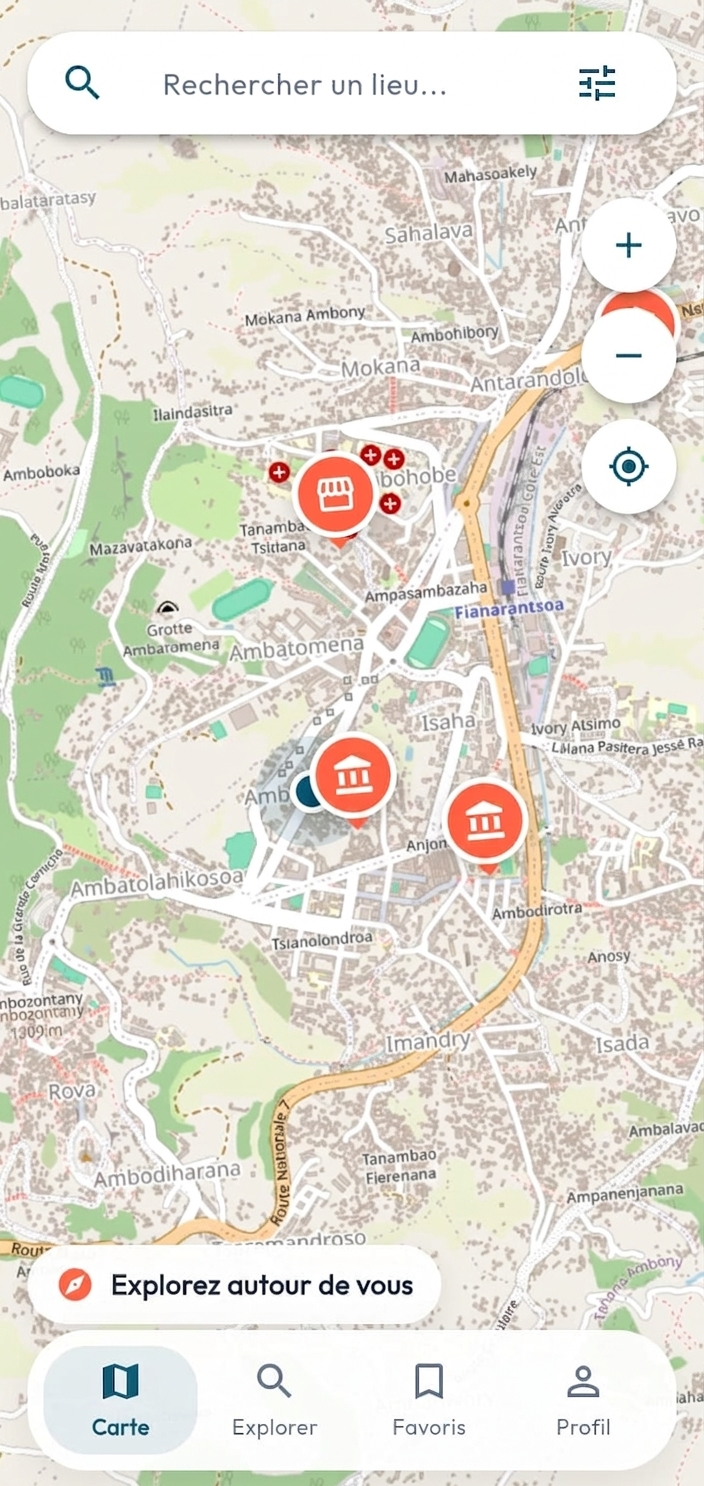
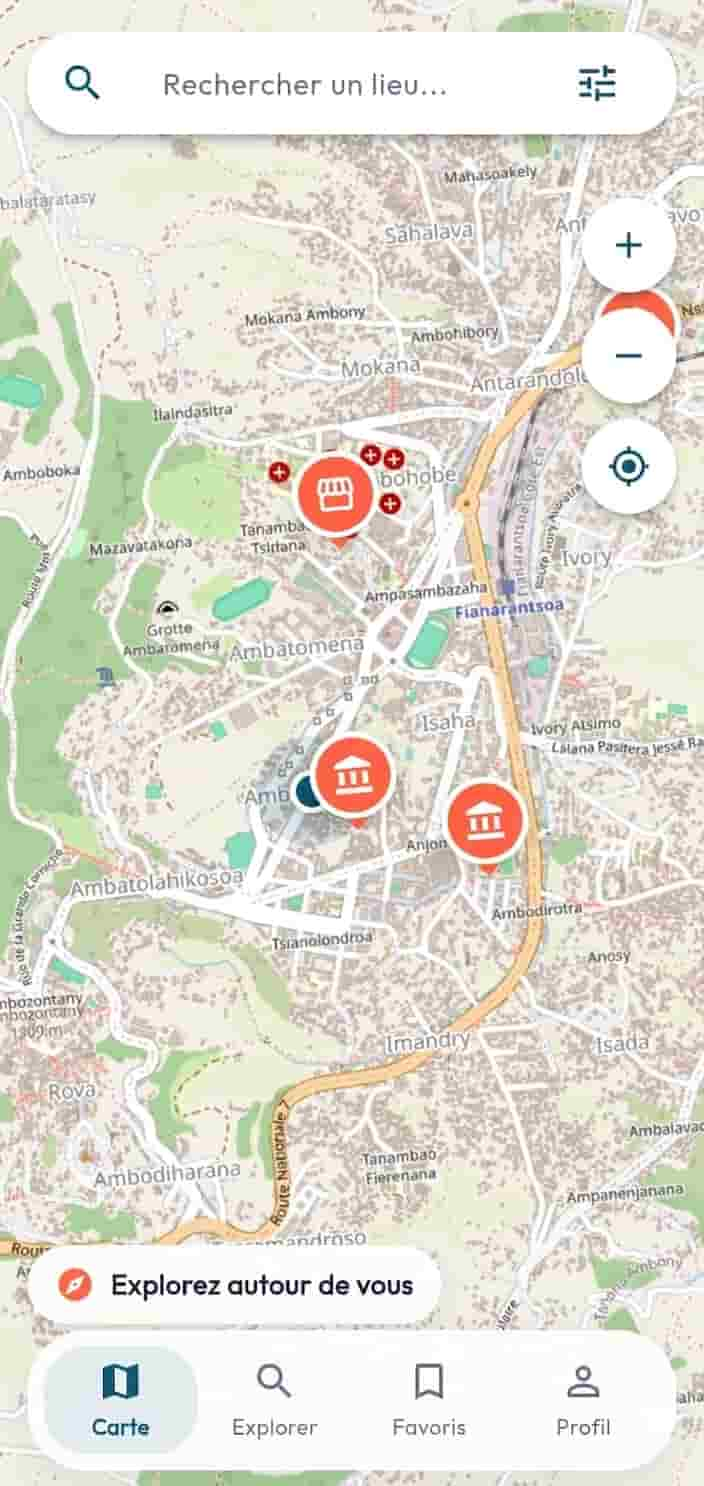
modif image (poids)

diff --git a/src/data/projects.js b/src/data/projects.js
@@ -67,7 +67,7 @@ export const projects = [
 
     demo: "#",
 
-    image: "/projects/car-rental.png"
+    image: "/projects/car-rental.jpg"
 
     },
 
@@ -92,7 +92,7 @@ export const projects = [
 
     demo: "#",
 
-    image: "/projects/ContinUp.png"
+    image: "/projects/ContinUp.jpg"
 
     },
 
@@ -138,7 +138,7 @@ export const projects = [
 
     demo: "#",
 
-    image: "/projects/bankonline.png"
+    image: "/projects/bankonline.jpg"
 
     },
 
@@ -149,7 +149,7 @@ export const projects = [
       category: "Desktop",
       github: "private",
       demo: "#",
-      image: "/projects/stock_vente.png"
+      image: "/projects/stock_vente.jpg"
     },
 
     {
@@ -159,7 +159,7 @@ export const projects = [
       category: "Desktop",
       github: "private",
       demo: "#",
-      image: "/projects/emigration.png"
+      image: "/projects/emigration.jpg"
     }
 
     ];
